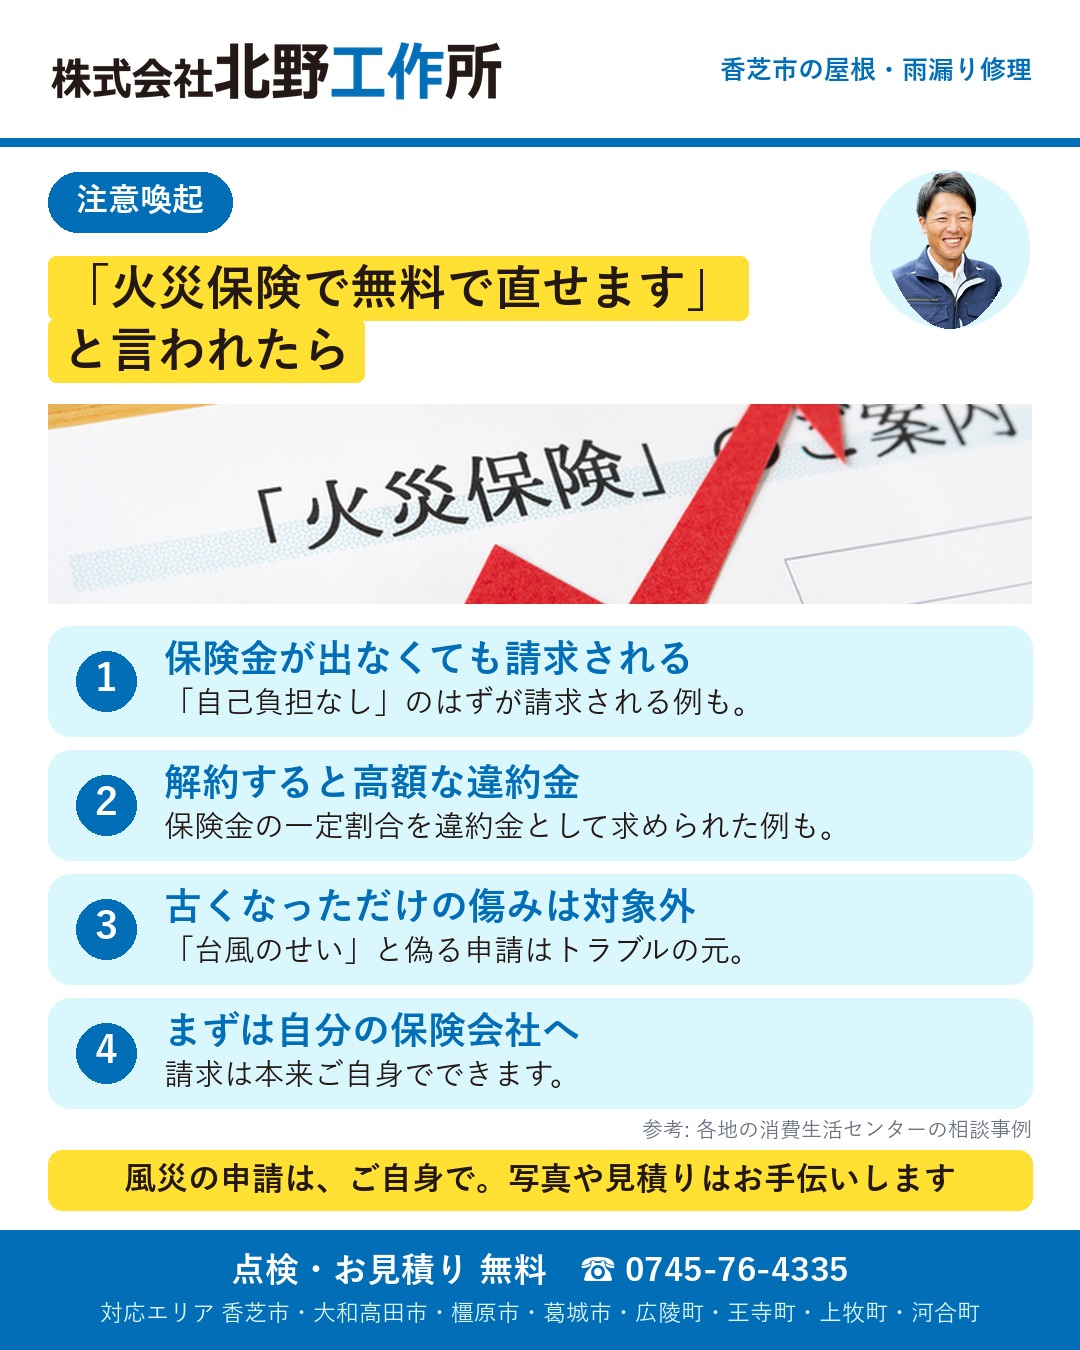
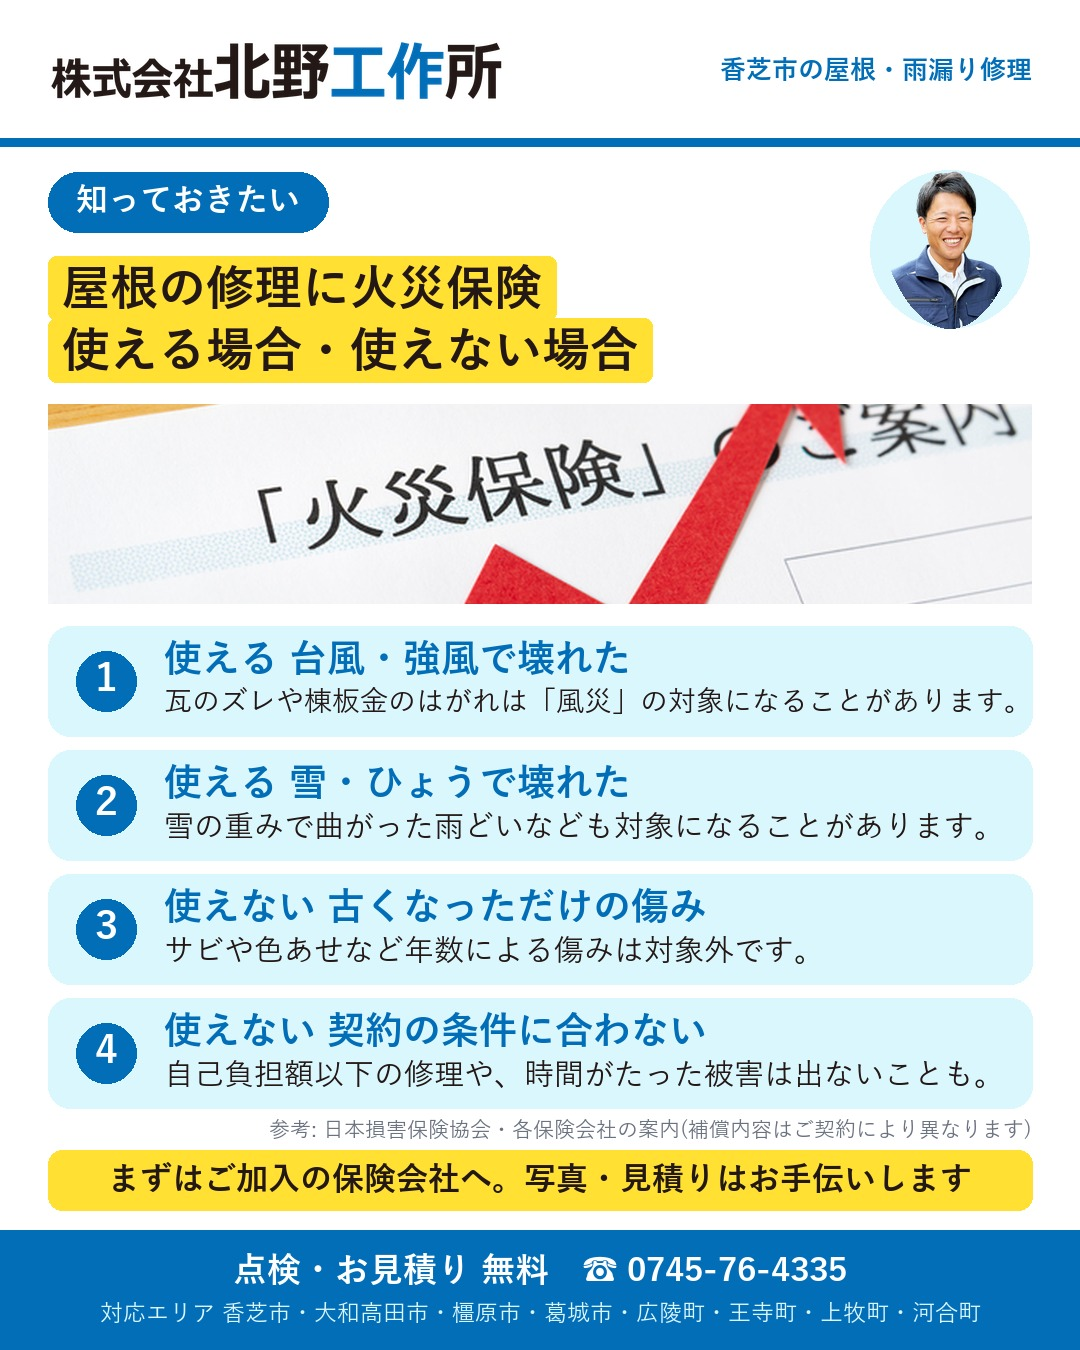
26 火災保険の投稿を「使える場合・使えない場合」に作り直し(火災保険を悪く言わない)

diff --git a/make_posts.py b/make_posts.py
@@ -951,30 +951,35 @@ def post25():
         source="参考: 国民生活センター・各地の消費生活センターの注意喚起", note_bg=YELLOW, note_fg=INK)
 
 def post26():
-    list_post(26, "news_kasai_hoken", "注意喚起", "「火災保険で無料で直せます」\nと言われたら",
-        [("保険金が出なくても請求される", "「自己負担なし」のはずが請求される例も。"),
-         ("解約すると高額な違約金", "保険金の一定割合を違約金として求められた例も。"),
-         ("古くなっただけの傷みは対象外", "「台風のせい」と偽る申請はトラブルの元。"),
-         ("まずは自分の保険会社へ", "請求は本来ご自身でできます。代理店や保険会社に先に相談を。")],
-        "風災の申請は、ご自身で。写真や見積りはお手伝いします",
-        """「火災保険を使えば、屋根を無料で直せますよ」と言われたら☂
+    # 2026-11-01 ユーザー指示: 火災保険は条件を満たせば正しく使えるもの→悪く言わず「使える場合・使えない場合」を案内する
+    list_post(26, "news_kasai_hoken", "知っておきたい", "屋根の修理に火災保険\n使える場合・使えない場合",
+        [("使える 台風・強風で壊れた", "瓦のズレや棟板金のはがれは「風災」の対象になることがあります。"),
+         ("使える 雪・ひょうで壊れた", "雪の重みで曲がった雨どいなども対象になることがあります。"),
+         ("使えない 古くなっただけの傷み", "サビや色あせなど年数による傷みは対象外です。"),
+         ("使えない 契約の条件に合わない", "自己負担額以下の修理や、時間がたった被害は出ないことも。")],
+        "まずはご加入の保険会社へ。写真・見積りはお手伝いします",
+        """屋根の修理に火災保険が使える場合・使えない場合🏠
 
-台風や大雪のあとに、こうした勧誘が増えます。各地の消費生活センターには、次のような相談が寄せられています。
+火災保険は、火事だけでなく台風や雪などの自然災害で壊れたときにも使えることがある、心強い備えです。ただ、どんな傷みでも出るわけではありません。目安をまとめました。
 
-① 保険金が出なくても請求される
-「自己負担なし」のはずが、修理代や手数料を請求された。
+〇 使える場合がある
+① 台風・強風で壊れた(風災)
+瓦のズレ・割れ、棟板金のはがれ、雨どいの破損など。
 
-② 解約すると高額な違約金
-保険金の一定割合を違約金として求められた。
+② 雪・ひょうで壊れた(雪災・ひょう災)
+雪の重みで雨どいが曲がった、ひょうで波板に穴があいた、など。
 
-③ 古くなっただけの傷みは対象外
-経年劣化を「台風のせい」として申請すると、保険金の返還や、場合によっては詐欺とされるおそれも。
+× 使えない場合
+③ 古くなっただけの傷み(経年劣化)
+サビ・色あせ・年数による割れなどは対象外です。
 
-④ まずは自分の保険会社へ
-保険の請求は、本来ご自身でできる手続きです。先に代理店や保険会社に相談してください。
+④ 契約の条件に合わない
+修理代が自己負担額(免責金額)以下のときや、被害から時間がたったとき(請求は原則3年以内)は出ないことがあります。
 
-北野工作所では、本当に風災で壊れた箇所について、申請に必要な写真やお見積りの作成をお手伝いしています。無理な申請はおすすめしません🙏""",
-        source="参考: 各地の消費生活センターの相談事例", note_bg=YELLOW, note_fg=INK)
+補償の内容はご契約によって違います。保険金が出るかどうかを決めるのは保険会社なので、「これは使える?」と思ったら、まずはご加入の保険会社や代理店に聞いてみてください。
+
+北野工作所では、台風などで本当に壊れた箇所について、保険の申請に必要な被害写真やお見積りの作成をお手伝いしています。「保険が使えるかわからないけど見てほしい」というご相談もお気軽にどうぞ😊""",
+        source="参考: 日本損害保険協会・各保険会社の案内(補償内容はご契約により異なります)", note_bg=YELLOW, note_fg=INK)
 
 def post27():
     list_post(27, "season_fuyumae", "季節のお手入れ", "冬が来る前に。\n11月中にしておきたい4つ",

diff --git a/AUTO_GENERATE.md b/AUTO_GENERATE.md
@@ -187,6 +187,7 @@
 
 ## 書いてはいけないこと
 - 資料に無い事実・数字(補助金、施工件数、受賞、人数、年数の断定)
+- **火災保険を悪く言わない**(条件を満たせば正しく使えるもの。ユーザー指示 2026-11-01)。「保険で直せる」系は勧誘の怖さではなく「使える場合・使えない場合」「まずはご加入の保険会社へ」の形で書く
 - 他社の名指し批判、「必ず」「絶対」「100%」などの断定、不安を過度にあおる表現
 - 医療・法律の断定(クーリング・オフは「条件を満たせば8日以内」の書き方で)
 - ハッシュタグ、電話番号、URL(自動で付く)
